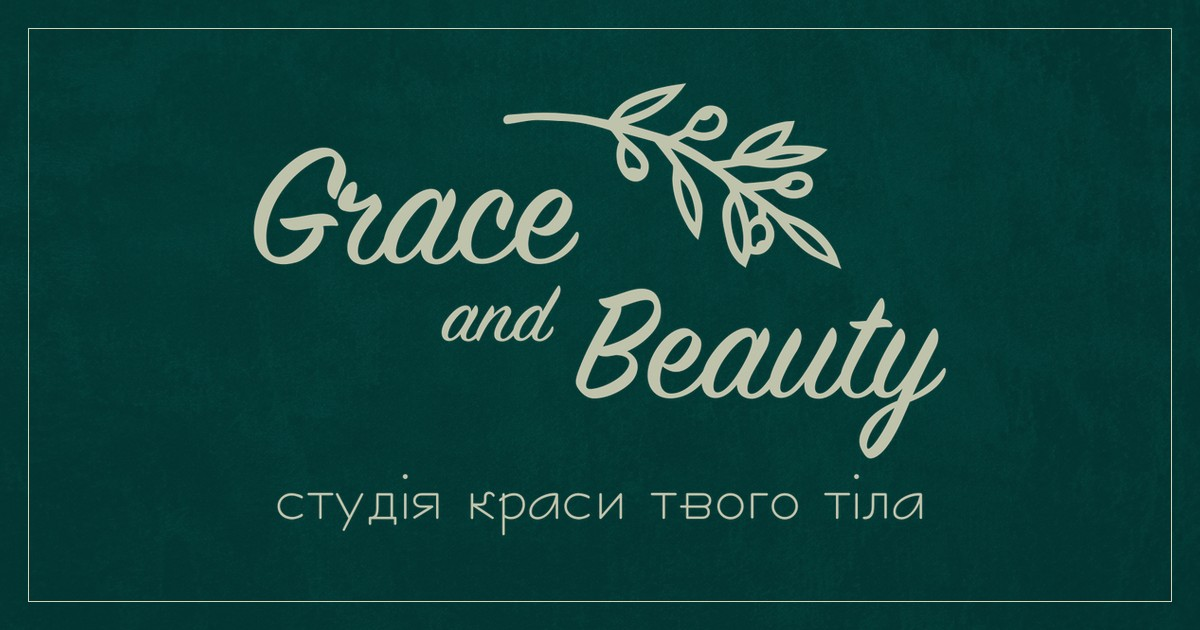
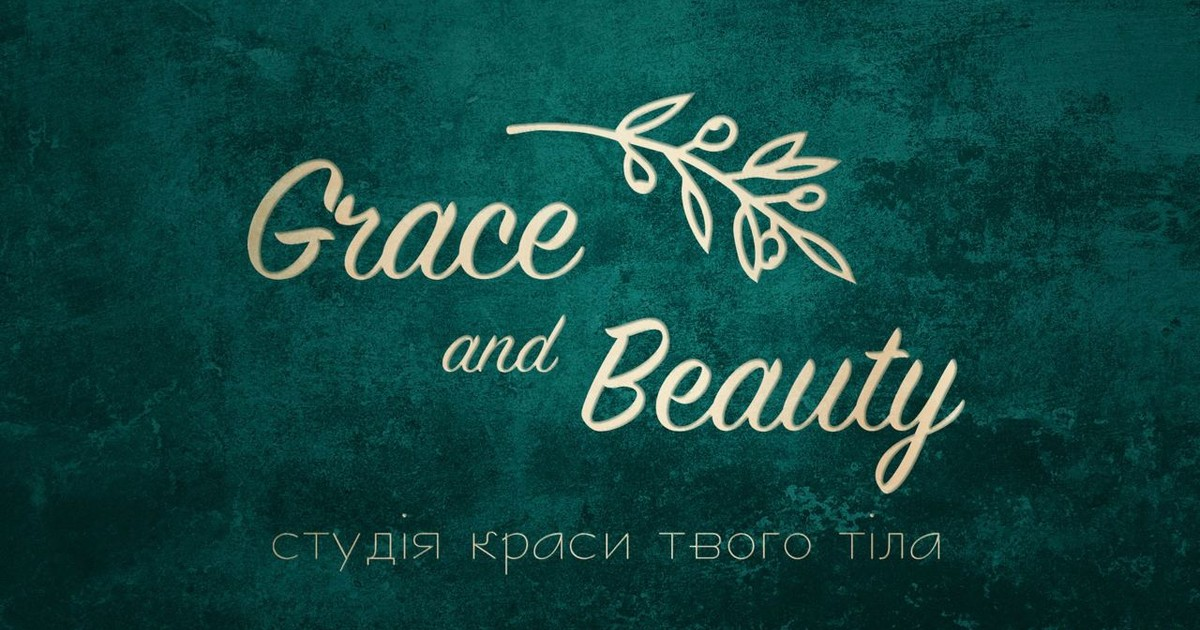
feat: фірмове шер-зображення (емералд-фон з логотипом)

diff --git a/index.html b/index.html
@@ -20,13 +20,13 @@
 <meta property="og:title" content="Grace & Beauty — студія краси та масажу у Рівному">
 <meta property="og:url" content="https://grace-and-beauty.com/">
 <meta property="og:description" content="Масаж, ендосфера, RF-ліфтинг, кавітація та SPA-догляд у Рівному. Онлайн-запис.">
-<meta property="og:image" content="https://grace-and-beauty.com/img/og.jpg">
+<meta property="og:image" content="https://grace-and-beauty.com/img/og.jpg?v=1782764488">
 <meta property="og:image:width" content="1200">
 <meta property="og:image:height" content="630">
 <meta name="twitter:card" content="summary_large_image">
 <meta name="twitter:title" content="Grace & Beauty — студія краси у Рівному">
 <meta name="twitter:description" content="Масаж, апаратна косметологія та SPA-догляд у центрі Рівного.">
-<meta name="twitter:image" content="https://grace-and-beauty.com/img/og.jpg">
+<meta name="twitter:image" content="https://grace-and-beauty.com/img/og.jpg?v=1782764488">
 <link rel="preconnect" href="https://fonts.googleapis.com">
 <link rel="preconnect" href="https://fonts.gstatic.com" crossorigin>
 <link href="https://fonts.googleapis.com/css2?family=Cormorant+Garamond:ital,wght@0,300;0,400;0,500;0,600;1,300;1,400;1,500&family=Jost:wght@300;400;500&display=swap" rel="stylesheet">
